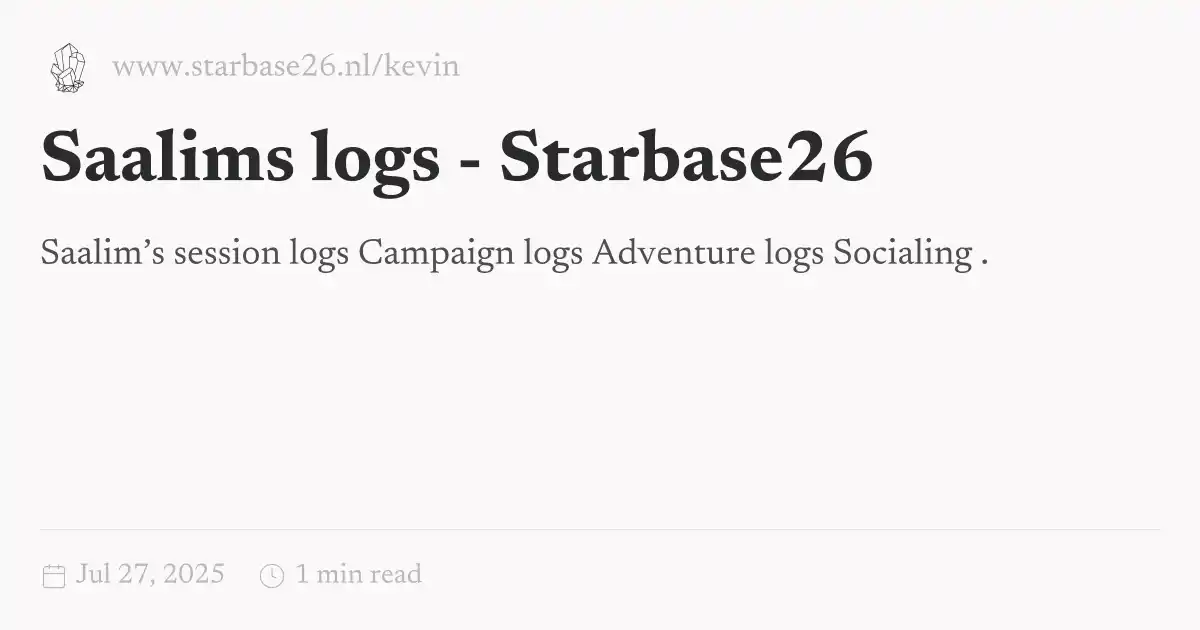
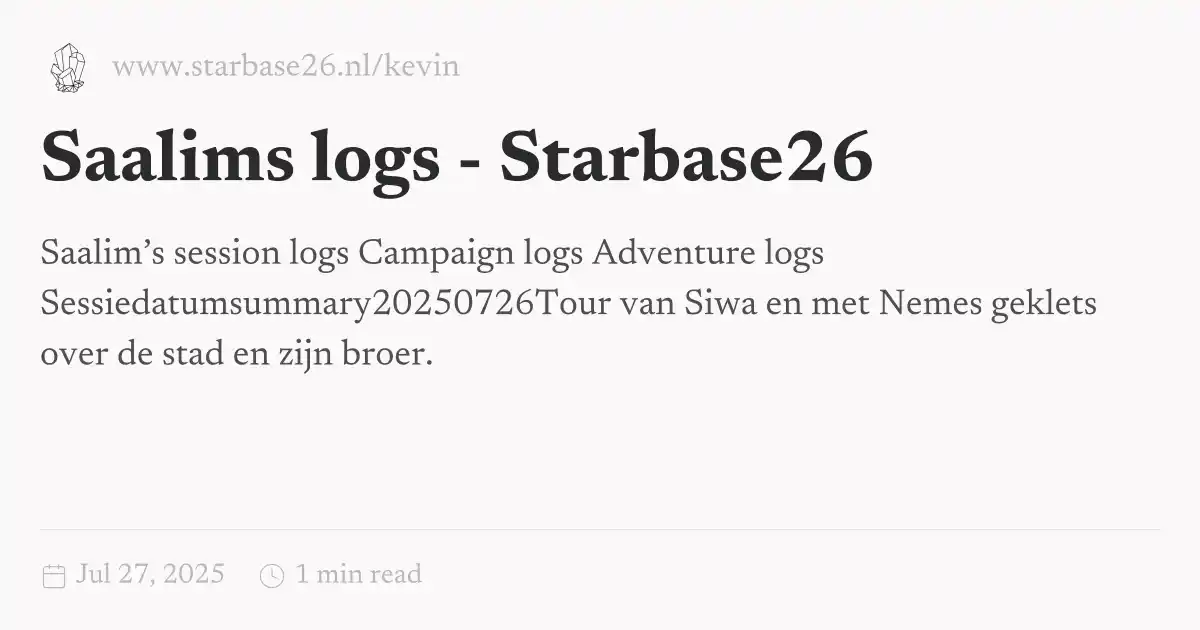
Quartz sync: Jul 27, 2025, 3:20 PM

Changed region(s): [[0.0308, 0.4524, 0.925, 0.5127], [0.0308, 0.5429, 0.37, 0.6032], [0.6783, 0.3921, 0.8325, 0.4222]]

diff --git a/public/TTRPG/characters/My-Characters/Saalim-abu-Razin/Saalims-logs.html b/public/TTRPG/characters/My-Characters/Saalim-abu-Razin/Saalims-logs.html
@@ -1,5 +1,5 @@
 <!DOCTYPE html>
-<html lang="en"><head><title>Saalims logs - Starbase26</title><meta charset="utf-8"/><link rel="preconnect" href="https://fonts.googleapis.com"/><link rel="preconnect" href="https://fonts.gstatic.com"/><link rel="stylesheet" href="https://fonts.googleapis.com/css2?family=Newsreader:wght@400;700&amp;family=Newsreader:ital,wght@0,400;0,600;1,400;1,600&amp;family=Anonymous Pro:wght@400;600&amp;display=swap"/><link rel="preconnect" href="https://cdnjs.cloudflare.com" crossorigin="anonymous"/><meta name="viewport" content="width=device-width, initial-scale=1.0"/><meta name="og:site_name" content="The Vault"/><meta property="og:title" content="Saalims logs - Starbase26"/><meta property="og:type" content="website"/><meta name="twitter:card" content="summary_large_image"/><meta name="twitter:title" content="Saalims logs - Starbase26"/><meta name="twitter:description" content="Saalim’s session logs Campaign logs Adventure logs Socialing ."/><meta property="og:description" content="Saalim’s session logs Campaign logs Adventure logs Socialing ."/><meta property="og:image:alt" content="Saalim’s session logs Campaign logs Adventure logs Socialing ."/><meta property="twitter:domain" content="www.starbase26.nl/kevin"/><meta property="og:url" content="https://www.starbase26.nl/kevin/TTRPG/characters/My-Characters/Saalim-abu-Razin/Saalims-logs"/><meta property="twitter:url" content="https://www.starbase26.nl/kevin/TTRPG/characters/My-Characters/Saalim-abu-Razin/Saalims-logs"/><link rel="icon" href="../../../../static/icon.png"/><meta name="description" content="Saalim’s session logs Campaign logs Adventure logs Socialing ."/><meta name="generator" content="Quartz"/><link href="../../../../index.css" rel="stylesheet" type="text/css" spa-preserve/><style>.expand-button {
+<html lang="en"><head><title>Saalims logs - Starbase26</title><meta charset="utf-8"/><link rel="preconnect" href="https://fonts.googleapis.com"/><link rel="preconnect" href="https://fonts.gstatic.com"/><link rel="stylesheet" href="https://fonts.googleapis.com/css2?family=Newsreader:wght@400;700&amp;family=Newsreader:ital,wght@0,400;0,600;1,400;1,600&amp;family=Anonymous Pro:wght@400;600&amp;display=swap"/><link rel="preconnect" href="https://cdnjs.cloudflare.com" crossorigin="anonymous"/><meta name="viewport" content="width=device-width, initial-scale=1.0"/><meta name="og:site_name" content="The Vault"/><meta property="og:title" content="Saalims logs - Starbase26"/><meta property="og:type" content="website"/><meta name="twitter:card" content="summary_large_image"/><meta name="twitter:title" content="Saalims logs - Starbase26"/><meta name="twitter:description" content="Saalim’s session logs Campaign logs Adventure logs Sessiedatumsummary20250726Tour van Siwa en met Nemes geklets over de stad en zijn broer."/><meta property="og:description" content="Saalim’s session logs Campaign logs Adventure logs Sessiedatumsummary20250726Tour van Siwa en met Nemes geklets over de stad en zijn broer."/><meta property="og:image:alt" content="Saalim’s session logs Campaign logs Adventure logs Sessiedatumsummary20250726Tour van Siwa en met Nemes geklets over de stad en zijn broer."/><meta property="twitter:domain" content="www.starbase26.nl/kevin"/><meta property="og:url" content="https://www.starbase26.nl/kevin/TTRPG/characters/My-Characters/Saalim-abu-Razin/Saalims-logs"/><meta property="twitter:url" content="https://www.starbase26.nl/kevin/TTRPG/characters/My-Characters/Saalim-abu-Razin/Saalims-logs"/><link rel="icon" href="../../../../static/icon.png"/><meta name="description" content="Saalim’s session logs Campaign logs Adventure logs Sessiedatumsummary20250726Tour van Siwa en met Nemes geklets over de stad en zijn broer."/><meta name="generator" content="Quartz"/><link href="../../../../index.css" rel="stylesheet" type="text/css" spa-preserve/><style>.expand-button {
   position: absolute;
   display: flex;
   float: right;
@@ -119,7 +119,38 @@ pre:hover > .expand-button {
[1 lines of base64/hex data omitted]
 <h2 id="campaign-logs">Campaign logs<a role="anchor" aria-hidden="true" tabindex="-1" data-no-popover="true" href="#campaign-logs" class="internal"><svg width="18" height="18" viewBox="0 0 24 24" fill="none" stroke="currentColor" stroke-width="2" stroke-linecap="round" stroke-linejoin="round"><path d="M10 13a5 5 0 0 0 7.54.54l3-3a5 5 0 0 0-7.07-7.07l-1.72 1.71"></path><path d="M14 11a5 5 0 0 0-7.54-.54l-3 3a5 5 0 0 0 7.07 7.07l1.71-1.71"></path></svg></a></h2>
 <h2 id="adventure-logs">Adventure logs<a role="anchor" aria-hidden="true" tabindex="-1" data-no-popover="true" href="#adventure-logs" class="internal"><svg width="18" height="18" viewBox="0 0 24 24" fill="none" stroke="currentColor" stroke-width="2" stroke-linecap="round" stroke-linejoin="round"><path d="M10 13a5 5 0 0 0 7.54.54l3-3a5 5 0 0 0-7.07-7.07l-1.72 1.71"></path><path d="M14 11a5 5 0 0 0-7.54-.54l-3 3a5 5 0 0 0 7.07 7.07l1.71-1.71"></path></svg></a></h2>
-<h2 id="socialing">Socialing<a role="anchor" aria-hidden="true" tabindex="-1" data-no-popover="true" href="#socialing" class="internal"><svg width="18" height="18" viewBox="0 0 24 24" fill="none" stroke="currentColor" stroke-width="2" stroke-linecap="round" stroke-linejoin="round"><path d="M10 13a5 5 0 0 0 7.54.54l3-3a5 5 0 0 0-7.07-7.07l-1.72 1.71"></path><path d="M14 11a5 5 0 0 0-7.54-.54l-3 3a5 5 0 0 0 7.07 7.07l1.71-1.71"></path></svg></a></h2>
+
+
+
+
+
+
+
+
+
+
+
+
+
+
+
+
+
+
+
+
+
+
+
+
+
+
+
+
+
+
+
+<div class="table-container"><table><thead><tr><th>Sessiedatum</th><th>summary</th></tr></thead><tbody><tr><td><a href="../../../../TTRPG/session-notes/20250726" class="internal" data-slug="TTRPG/session-notes/20250726">20250726</a></td><td>Tour van Siwa en met Nemes geklets over de stad en zijn broer. Daarnaast is de Childrens’ Wing in het hospital afgerond en is kleurrijk en mooi!</td></tr><tr><td><a href="../../../../TTRPG/session-notes/20250725" class="internal" data-slug="TTRPG/session-notes/20250725">20250725</a></td><td>Saalim bevrijdt een Egyptische kolonel en installeert een groep van 18 streetrats in Siwa onder leiding van Khenru als informanten. Ondertussen arriveert een barmaid uit Abad in het paleis om haar brouwkunsten te verkennen.</td></tr><tr><td><a href="../../../../TTRPG/session-notes/20250724" class="internal" data-slug="TTRPG/session-notes/20250724">20250724</a></td><td>Saalim en Faisal gaan naar de stad Abad om Col. Menes uit de problemen te halen, om er achter te komen dat zijn broer Ahron niet zo nobel is als Menes.  Ook recruteerd Saalim wat straatkinderen om in Siwa een oogje in het zeil te houden voor hem.</td></tr><tr><td><a href="../../../../TTRPG/session-notes/20250723" class="internal" data-slug="TTRPG/session-notes/20250723">20250723</a></td><td>Twee jongens ruziën om een meisje; zij vindt het stiekem leuk en gooit water over hen. Saalim straft hen met 7 weken kamelen verzorgen, maar dat houdt maar één dag stand.</td></tr><tr><td><a href="../../../../TTRPG/session-notes/20250716" class="internal" data-slug="TTRPG/session-notes/20250716">20250716</a></td><td>Omar Mawazi’s wife, the Banshee, Destruction of Al Qadir</td></tr></tbody></table></div>
 </article><hr/><div class="page-footer"></div></div><div class="right sidebar"><div class="graph"><h3>Graph View</h3><div class="graph-outer"><div class="graph-container" data-cfg="{&quot;drag&quot;:true,&quot;zoom&quot;:true,&quot;depth&quot;:1,&quot;scale&quot;:1.1,&quot;repelForce&quot;:0.5,&quot;centerForce&quot;:0.3,&quot;linkDistance&quot;:30,&quot;fontSize&quot;:0.6,&quot;opacityScale&quot;:1,&quot;showTags&quot;:true,&quot;removeTags&quot;:[],&quot;focusOnHover&quot;:false,&quot;enableRadial&quot;:false}"></div><button class="global-graph-icon" aria-label="Global Graph"><svg version="1.1" xmlns="http://www.w3.org/2000/svg" xmlns:xlink="http://www.w3.org/1999/xlink" x="0px" y="0px" viewBox="0 0 55 55" fill="currentColor" xml:space="preserve"><path d="M49,0c-3.309,0-6,2.691-6,6c0,1.035,0.263,2.009,0.726,2.86l-9.829,9.829C32.542,17.634,30.846,17,29,17
                 s-3.542,0.634-4.898,1.688l-7.669-7.669C16.785,10.424,17,9.74,17,9c0-2.206-1.794-4-4-4S9,6.794,9,9s1.794,4,4,4
                 c0.74,0,1.424-0.215,2.019-0.567l7.669,7.669C21.634,21.458,21,23.154,21,25s0.634,3.542,1.688,4.897L10.024,42.562
@@ -130,6 +161,6 @@ pre:hover > .expand-button {
                 C46.042,11.405,47.451,12,49,12c3.309,0,6-2.691,6-6S52.309,0,49,0z M11,9c0-1.103,0.897-2,2-2s2,0.897,2,2s-0.897,2-2,2
                 S11,10.103,11,9z M6,51c-2.206,0-4-1.794-4-4s1.794-4,4-4s4,1.794,4,4S8.206,51,6,51z M33,49c0,2.206-1.794,4-4,4s-4-1.794-4-4
                 s1.794-4,4-4S33,46.794,33,49z M29,31c-3.309,0-6-2.691-6-6s2.691-6,6-6s6,2.691,6,6S32.309,31,29,31z M47,41c0,1.103-0.897,2-2,2
-                s-2-0.897-2-2s0.897-2,2-2S47,39.897,47,41z M49,10c-2.206,0-4-1.794-4-4s1.794-4,4-4s4,1.794,4,4S51.206,10,49,10z"></path></svg></button></div><div class="global-graph-outer"><div class="global-graph-container" data-cfg="{&quot;drag&quot;:true,&quot;zoom&quot;:true,&quot;depth&quot;:-1,&quot;scale&quot;:0.9,&quot;repelForce&quot;:0.5,&quot;centerForce&quot;:0.2,&quot;linkDistance&quot;:30,&quot;fontSize&quot;:0.6,&quot;opacityScale&quot;:1,&quot;showTags&quot;:true,&quot;removeTags&quot;:[],&quot;focusOnHover&quot;:true,&quot;enableRadial&quot;:true}"></div></div></div><div class="toc desktop-only"><button type="button" class="toc-header" aria-controls="toc-content" aria-expanded="true"><h3>Table of Contents</h3><svg xmlns="http://www.w3.org/2000/svg" width="24" height="24" viewBox="0 0 24 24" fill="none" stroke="currentColor" stroke-width="2" stroke-linecap="round" stroke-linejoin="round" class="fold"><polyline points="6 9 12 15 18 9"></polyline></svg></button><ul class="toc-content overflow" id="list-1"><li class="depth-0"><a href="#saalims-session-logs" data-for="saalims-session-logs">Saalim’s session logs</a></li><li class="depth-1"><a href="#campaign-logs" data-for="campaign-logs">Campaign logs</a></li><li class="depth-1"><a href="#adventure-logs" data-for="adventure-logs">Adventure logs</a></li><li class="depth-1"><a href="#socialing" data-for="socialing">Socialing</a></li><li class="overflow-end"></li></ul></div><div class="backlinks"><h3>Backlinks</h3><ul id="list-2" class="overflow"><li><a href="../../../../TTRPG/characters/My-Characters/Saalim-abu-Razin/Saalim-Abu-Razin-Al-Medjai" class="internal">Saalim Abu Razin Al Medjai</a></li><li class="overflow-end"></li></ul></div></div><footer class><p>Created with <a href="https://quartz.jzhao.xyz/">Quartz v4.5.1</a> © 2025</p><ul><li><a href="https://github.com/jackyzha0/quartz">GitHub</a></li><li><a href="https://discord.gg/cRFFHYye7t">Discord Community</a></li></ul></footer></div></div></body><script type="application/javascript">function n(){let t=this.parentElement;t.classList.toggle("is-collapsed");let e=t.getElementsByClassName("callout-content")[0];if(!e)return;let l=t.classList.contains("is-collapsed");e.style.gridTemplateRows=l?"0fr":"1fr"}function c(){let t=document.getElementsByClassName("callout is-collapsible");for(let e of t){let l=e.getElementsByClassName("callout-title")[0],s=e.getElementsByClassName("callout-content")[0];if(!l||!s)continue;l.addEventListener("click",n),window.addCleanup(()=>l.removeEventListener("click",n));let o=e.classList.contains("is-collapsed");s.style.gridTemplateRows=o?"0fr":"1fr"}}document.addEventListener("nav",c);
+                s-2-0.897-2-2s0.897-2,2-2S47,39.897,47,41z M49,10c-2.206,0-4-1.794-4-4s1.794-4,4-4s4,1.794,4,4S51.206,10,49,10z"></path></svg></button></div><div class="global-graph-outer"><div class="global-graph-container" data-cfg="{&quot;drag&quot;:true,&quot;zoom&quot;:true,&quot;depth&quot;:-1,&quot;scale&quot;:0.9,&quot;repelForce&quot;:0.5,&quot;centerForce&quot;:0.2,&quot;linkDistance&quot;:30,&quot;fontSize&quot;:0.6,&quot;opacityScale&quot;:1,&quot;showTags&quot;:true,&quot;removeTags&quot;:[],&quot;focusOnHover&quot;:true,&quot;enableRadial&quot;:true}"></div></div></div><div class="toc desktop-only"><button type="button" class="toc-header" aria-controls="toc-content" aria-expanded="true"><h3>Table of Contents</h3><svg xmlns="http://www.w3.org/2000/svg" width="24" height="24" viewBox="0 0 24 24" fill="none" stroke="currentColor" stroke-width="2" stroke-linecap="round" stroke-linejoin="round" class="fold"><polyline points="6 9 12 15 18 9"></polyline></svg></button><ul class="toc-content overflow" id="list-1"><li class="depth-0"><a href="#saalims-session-logs" data-for="saalims-session-logs">Saalim’s session logs</a></li><li class="depth-1"><a href="#campaign-logs" data-for="campaign-logs">Campaign logs</a></li><li class="depth-1"><a href="#adventure-logs" data-for="adventure-logs">Adventure logs</a></li><li class="overflow-end"></li></ul></div><div class="backlinks"><h3>Backlinks</h3><ul id="list-2" class="overflow"><li><a href="../../../../TTRPG/characters/My-Characters/Saalim-abu-Razin/Saalim-Abu-Razin-Al-Medjai" class="internal">Saalim Abu Razin Al Medjai</a></li><li class="overflow-end"></li></ul></div></div><footer class><p>Created with <a href="https://quartz.jzhao.xyz/">Quartz v4.5.1</a> © 2025</p><ul><li><a href="https://github.com/jackyzha0/quartz">GitHub</a></li><li><a href="https://discord.gg/cRFFHYye7t">Discord Community</a></li></ul></footer></div></div></body><script type="application/javascript">function n(){let t=this.parentElement;t.classList.toggle("is-collapsed");let e=t.getElementsByClassName("callout-content")[0];if(!e)return;let l=t.classList.contains("is-collapsed");e.style.gridTemplateRows=l?"0fr":"1fr"}function c(){let t=document.getElementsByClassName("callout is-collapsible");for(let e of t){let l=e.getElementsByClassName("callout-title")[0],s=e.getElementsByClassName("callout-content")[0];if(!l||!s)continue;l.addEventListener("click",n),window.addCleanup(()=>l.removeEventListener("click",n));let o=e.classList.contains("is-collapsed");s.style.gridTemplateRows=o?"0fr":"1fr"}}document.addEventListener("nav",c);
 </script><script type="module">function f(i,e){if(!i)return;function r(o){o.target===this&&(o.preventDefault(),o.stopPropagation(),e())}function t(o){o.key.startsWith("Esc")&&(o.preventDefault(),e())}i?.addEventListener("click",r),window.addCleanup(()=>i?.removeEventListener("click",r)),document.addEventListener("keydown",t),window.addCleanup(()=>document.removeEventListener("keydown",t))}function y(i){for(;i.firstChild;)i.removeChild(i.firstChild)}var h=class{constructor(e,r){this.container=e;this.content=r;this.setupEventListeners(),this.setupNavigationControls(),this.resetTransform()}isDragging=!1;startPan={x:0,y:0};currentPan={x:0,y:0};scale=1;MIN_SCALE=.5;MAX_SCALE=3;cleanups=[];setupEventListeners(){let e=this.onMouseDown.bind(this),r=this.onMouseMove.bind(this),t=this.onMouseUp.bind(this),o=this.resetTransform.bind(this);this.container.addEventListener("mousedown",e),document.addEventListener("mousemove",r),document.addEventListener("mouseup",t),window.addEventListener("resize",o),this.cleanups.push(()=>this.container.removeEventListener("mousedown",e),()=>document.removeEventListener("mousemove",r),()=>document.removeEventListener("mouseup",t),()=>window.removeEventListener("resize",o))}cleanup(){for(let e of this.cleanups)e()}setupNavigationControls(){let e=document.createElement("div");e.className="mermaid-controls";let r=this.createButton("+",()=>this.zoom(.1)),t=this.createButton("-",()=>this.zoom(-.1)),o=this.createButton("Reset",()=>this.resetTransform());e.appendChild(t),e.appendChild(o),e.appendChild(r),this.container.appendChild(e)}createButton(e,r){let t=document.createElement("button");return t.textContent=e,t.className="mermaid-control-button",t.addEventListener("click",r),window.addCleanup(()=>t.removeEventListener("click",r)),t}onMouseDown(e){e.button===0&&(this.isDragging=!0,this.startPan={x:e.clientX-this.currentPan.x,y:e.clientY-this.currentPan.y},this.container.style.cursor="grabbing")}onMouseMove(e){this.isDragging&&(e.preventDefault(),this.currentPan={x:e.clientX-this.startPan.x,y:e.clientY-this.startPan.y},this.updateTransform())}onMouseUp(){this.isDragging=!1,this.container.style.cursor="grab"}zoom(e){let r=Math.min(Math.max(this.scale+e,this.MIN_SCALE),this.MAX_SCALE),t=this.content.getBoundingClientRect(),o=t.width/2,n=t.height/2,c=r-this.scale;this.currentPan.x-=o*c,this.currentPan.y-=n*c,this.scale=r,this.updateTransform()}updateTransform(){this.content.style.transform=`translate(${this.currentPan.x}px, ${this.currentPan.y}px) scale(${this.scale})`}resetTransform(){this.scale=1;let e=this.content.querySelector("svg");this.currentPan={x:e.getBoundingClientRect().width/2,y:e.getBoundingClientRect().height/2},this.updateTransform()}},C=["--secondary","--tertiary","--gray","--light","--lightgray","--highlight","--dark","--darkgray","--codeFont"],E;document.addEventListener("nav",async()=>{let e=document.querySelector(".center").querySelectorAll("code.mermaid");if(e.length===0)return;E||=await import("https://cdnjs.cloudflare.com/ajax/libs/mermaid/11.4.0/mermaid.esm.min.mjs");let r=E.default,t=new WeakMap;for(let n of e)t.set(n,n.innerText);async function o(){for(let s of e){s.removeAttribute("data-processed");let a=t.get(s);a&&(s.innerHTML=a)}let n=C.reduce((s,a)=>(s[a]=window.getComputedStyle(document.documentElement).getPropertyValue(a),s),{}),c=document.documentElement.getAttribute("saved-theme")==="dark";r.initialize({startOnLoad:!1,securityLevel:"loose",theme:c?"dark":"base",themeVariables:{fontFamily:n["--codeFont"],primaryColor:n["--light"],primaryTextColor:n["--darkgray"],primaryBorderColor:n["--tertiary"],lineColor:n["--darkgray"],secondaryColor:n["--secondary"],tertiaryColor:n["--tertiary"],clusterBkg:n["--light"],edgeLabelBackground:n["--highlight"]}}),await r.run({nodes:e})}await o(),document.addEventListener("themechange",o),window.addCleanup(()=>document.removeEventListener("themechange",o));for(let n=0;n<e.length;n++){let v=function(){let g=l.querySelector("#mermaid-space"),m=l.querySelector(".mermaid-content");if(!m)return;y(m);let w=c.querySelector("svg").cloneNode(!0);m.appendChild(w),l.classList.add("active"),g.style.cursor="grab",u=new h(g,m)},M=function(){l.classList.remove("active"),u?.cleanup(),u=null},c=e[n],s=c.parentElement,a=s.querySelector(".clipboard-button"),d=s.querySelector(".expand-button"),p=window.getComputedStyle(a),L=a.offsetWidth+parseFloat(p.marginLeft||"0")+parseFloat(p.marginRight||"0");d.style.right=`calc(${L}px + 0.3rem)`,s.prepend(d);let l=s.querySelector("#mermaid-container");if(!l)return;let u=null;d.addEventListener("click",v),f(l,M),window.addCleanup(()=>{u?.cleanup(),d.removeEventListener("click",v)})}});
 </script><script src="https://cdn.jsdelivr.net/npm/katex@0.16.11/dist/contrib/copy-tex.min.js" type="application/javascript"></script><script src="../../../../postscript.js" type="module"></script></html>

diff --git a/public/Personal/BluRays/index.html b/public/Personal/BluRays/index.html
@@ -116,6 +116,6 @@ pre:hover > .expand-button {
   padding: 0 12px;
   font-size: 14px;
 }
[2 lines of base64/hex data omitted]
 </script><script type="module">function f(i,e){if(!i)return;function r(o){o.target===this&&(o.preventDefault(),o.stopPropagation(),e())}function t(o){o.key.startsWith("Esc")&&(o.preventDefault(),e())}i?.addEventListener("click",r),window.addCleanup(()=>i?.removeEventListener("click",r)),document.addEventListener("keydown",t),window.addCleanup(()=>document.removeEventListener("keydown",t))}function y(i){for(;i.firstChild;)i.removeChild(i.firstChild)}var h=class{constructor(e,r){this.container=e;this.content=r;this.setupEventListeners(),this.setupNavigationControls(),this.resetTransform()}isDragging=!1;startPan={x:0,y:0};currentPan={x:0,y:0};scale=1;MIN_SCALE=.5;MAX_SCALE=3;cleanups=[];setupEventListeners(){let e=this.onMouseDown.bind(this),r=this.onMouseMove.bind(this),t=this.onMouseUp.bind(this),o=this.resetTransform.bind(this);this.container.addEventListener("mousedown",e),document.addEventListener("mousemove",r),document.addEventListener("mouseup",t),window.addEventListener("resize",o),this.cleanups.push(()=>this.container.removeEventListener("mousedown",e),()=>document.removeEventListener("mousemove",r),()=>document.removeEventListener("mouseup",t),()=>window.removeEventListener("resize",o))}cleanup(){for(let e of this.cleanups)e()}setupNavigationControls(){let e=document.createElement("div");e.className="mermaid-controls";let r=this.createButton("+",()=>this.zoom(.1)),t=this.createButton("-",()=>this.zoom(-.1)),o=this.createButton("Reset",()=>this.resetTransform());e.appendChild(t),e.appendChild(o),e.appendChild(r),this.container.appendChild(e)}createButton(e,r){let t=document.createElement("button");return t.textContent=e,t.className="mermaid-control-button",t.addEventListener("click",r),window.addCleanup(()=>t.removeEventListener("click",r)),t}onMouseDown(e){e.button===0&&(this.isDragging=!0,this.startPan={x:e.clientX-this.currentPan.x,y:e.clientY-this.currentPan.y},this.container.style.cursor="grabbing")}onMouseMove(e){this.isDragging&&(e.preventDefault(),this.currentPan={x:e.clientX-this.startPan.x,y:e.clientY-this.startPan.y},this.updateTransform())}onMouseUp(){this.isDragging=!1,this.container.style.cursor="grab"}zoom(e){let r=Math.min(Math.max(this.scale+e,this.MIN_SCALE),this.MAX_SCALE),t=this.content.getBoundingClientRect(),o=t.width/2,n=t.height/2,c=r-this.scale;this.currentPan.x-=o*c,this.currentPan.y-=n*c,this.scale=r,this.updateTransform()}updateTransform(){this.content.style.transform=`translate(${this.currentPan.x}px, ${this.currentPan.y}px) scale(${this.scale})`}resetTransform(){this.scale=1;let e=this.content.querySelector("svg");this.currentPan={x:e.getBoundingClientRect().width/2,y:e.getBoundingClientRect().height/2},this.updateTransform()}},C=["--secondary","--tertiary","--gray","--light","--lightgray","--highlight","--dark","--darkgray","--codeFont"],E;document.addEventListener("nav",async()=>{let e=document.querySelector(".center").querySelectorAll("code.mermaid");if(e.length===0)return;E||=await import("https://cdnjs.cloudflare.com/ajax/libs/mermaid/11.4.0/mermaid.esm.min.mjs");let r=E.default,t=new WeakMap;for(let n of e)t.set(n,n.innerText);async function o(){for(let s of e){s.removeAttribute("data-processed");let a=t.get(s);a&&(s.innerHTML=a)}let n=C.reduce((s,a)=>(s[a]=window.getComputedStyle(document.documentElement).getPropertyValue(a),s),{}),c=document.documentElement.getAttribute("saved-theme")==="dark";r.initialize({startOnLoad:!1,securityLevel:"loose",theme:c?"dark":"base",themeVariables:{fontFamily:n["--codeFont"],primaryColor:n["--light"],primaryTextColor:n["--darkgray"],primaryBorderColor:n["--tertiary"],lineColor:n["--darkgray"],secondaryColor:n["--secondary"],tertiaryColor:n["--tertiary"],clusterBkg:n["--light"],edgeLabelBackground:n["--highlight"]}}),await r.run({nodes:e})}await o(),document.addEventListener("themechange",o),window.addCleanup(()=>document.removeEventListener("themechange",o));for(let n=0;n<e.length;n++){let v=function(){let g=l.querySelector("#mermaid-space"),m=l.querySelector(".mermaid-content");if(!m)return;y(m);let w=c.querySelector("svg").cloneNode(!0);m.appendChild(w),l.classList.add("active"),g.style.cursor="grab",u=new h(g,m)},M=function(){l.classList.remove("active"),u?.cleanup(),u=null},c=e[n],s=c.parentElement,a=s.querySelector(".clipboard-button"),d=s.querySelector(".expand-button"),p=window.getComputedStyle(a),L=a.offsetWidth+parseFloat(p.marginLeft||"0")+parseFloat(p.marginRight||"0");d.style.right=`calc(${L}px + 0.3rem)`,s.prepend(d);let l=s.querySelector("#mermaid-container");if(!l)return;let u=null;d.addEventListener("click",v),f(l,M),window.addCleanup(()=>{u?.cleanup(),d.removeEventListener("click",v)})}});
 </script><script src="https://cdn.jsdelivr.net/npm/katex@0.16.11/dist/contrib/copy-tex.min.js" type="application/javascript"></script><script src="../../postscript.js" type="module"></script></html>

diff --git a/public/Personal/BluRays/my-blurays.html b/public/Personal/BluRays/my-blurays.html
@@ -116,7 +116,7 @@ pre:hover > .expand-button {
   padding: 0 12px;
   font-size: 14px;
 }
[2 lines of base64/hex data omitted]
                 s-3.542,0.634-4.898,1.688l-7.669-7.669C16.785,10.424,17,9.74,17,9c0-2.206-1.794-4-4-4S9,6.794,9,9s1.794,4,4,4
                 c0.74,0,1.424-0.215,2.019-0.567l7.669,7.669C21.634,21.458,21,23.154,21,25s0.634,3.542,1.688,4.897L10.024,42.562
                 C8.958,41.595,7.549,41,6,41c-3.309,0-6,2.691-6,6s2.691,6,6,6s6-2.691,6-6c0-1.035-0.263-2.009-0.726-2.86l12.829-12.829

diff --git a/public/Personal/index.html b/public/Personal/index.html
@@ -116,6 +116,6 @@ pre:hover > .expand-button {
   padding: 0 12px;
   font-size: 14px;
 }
[2 lines of base64/hex data omitted]
 </script><script type="module">function f(i,e){if(!i)return;function r(o){o.target===this&&(o.preventDefault(),o.stopPropagation(),e())}function t(o){o.key.startsWith("Esc")&&(o.preventDefault(),e())}i?.addEventListener("click",r),window.addCleanup(()=>i?.removeEventListener("click",r)),document.addEventListener("keydown",t),window.addCleanup(()=>document.removeEventListener("keydown",t))}function y(i){for(;i.firstChild;)i.removeChild(i.firstChild)}var h=class{constructor(e,r){this.container=e;this.content=r;this.setupEventListeners(),this.setupNavigationControls(),this.resetTransform()}isDragging=!1;startPan={x:0,y:0};currentPan={x:0,y:0};scale=1;MIN_SCALE=.5;MAX_SCALE=3;cleanups=[];setupEventListeners(){let e=this.onMouseDown.bind(this),r=this.onMouseMove.bind(this),t=this.onMouseUp.bind(this),o=this.resetTransform.bind(this);this.container.addEventListener("mousedown",e),document.addEventListener("mousemove",r),document.addEventListener("mouseup",t),window.addEventListener("resize",o),this.cleanups.push(()=>this.container.removeEventListener("mousedown",e),()=>document.removeEventListener("mousemove",r),()=>document.removeEventListener("mouseup",t),()=>window.removeEventListener("resize",o))}cleanup(){for(let e of this.cleanups)e()}setupNavigationControls(){let e=document.createElement("div");e.className="mermaid-controls";let r=this.createButton("+",()=>this.zoom(.1)),t=this.createButton("-",()=>this.zoom(-.1)),o=this.createButton("Reset",()=>this.resetTransform());e.appendChild(t),e.appendChild(o),e.appendChild(r),this.container.appendChild(e)}createButton(e,r){let t=document.createElement("button");return t.textContent=e,t.className="mermaid-control-button",t.addEventListener("click",r),window.addCleanup(()=>t.removeEventListener("click",r)),t}onMouseDown(e){e.button===0&&(this.isDragging=!0,this.startPan={x:e.clientX-this.currentPan.x,y:e.clientY-this.currentPan.y},this.container.style.cursor="grabbing")}onMouseMove(e){this.isDragging&&(e.preventDefault(),this.currentPan={x:e.clientX-this.startPan.x,y:e.clientY-this.startPan.y},this.updateTransform())}onMouseUp(){this.isDragging=!1,this.container.style.cursor="grab"}zoom(e){let r=Math.min(Math.max(this.scale+e,this.MIN_SCALE),this.MAX_SCALE),t=this.content.getBoundingClientRect(),o=t.width/2,n=t.height/2,c=r-this.scale;this.currentPan.x-=o*c,this.currentPan.y-=n*c,this.scale=r,this.updateTransform()}updateTransform(){this.content.style.transform=`translate(${this.currentPan.x}px, ${this.currentPan.y}px) scale(${this.scale})`}resetTransform(){this.scale=1;let e=this.content.querySelector("svg");this.currentPan={x:e.getBoundingClientRect().width/2,y:e.getBoundingClientRect().height/2},this.updateTransform()}},C=["--secondary","--tertiary","--gray","--light","--lightgray","--highlight","--dark","--darkgray","--codeFont"],E;document.addEventListener("nav",async()=>{let e=document.querySelector(".center").querySelectorAll("code.mermaid");if(e.length===0)return;E||=await import("https://cdnjs.cloudflare.com/ajax/libs/mermaid/11.4.0/mermaid.esm.min.mjs");let r=E.default,t=new WeakMap;for(let n of e)t.set(n,n.innerText);async function o(){for(let s of e){s.removeAttribute("data-processed");let a=t.get(s);a&&(s.innerHTML=a)}let n=C.reduce((s,a)=>(s[a]=window.getComputedStyle(document.documentElement).getPropertyValue(a),s),{}),c=document.documentElement.getAttribute("saved-theme")==="dark";r.initialize({startOnLoad:!1,securityLevel:"loose",theme:c?"dark":"base",themeVariables:{fontFamily:n["--codeFont"],primaryColor:n["--light"],primaryTextColor:n["--darkgray"],primaryBorderColor:n["--tertiary"],lineColor:n["--darkgray"],secondaryColor:n["--secondary"],tertiaryColor:n["--tertiary"],clusterBkg:n["--light"],edgeLabelBackground:n["--highlight"]}}),await r.run({nodes:e})}await o(),document.addEventListener("themechange",o),window.addCleanup(()=>document.removeEventListener("themechange",o));for(let n=0;n<e.length;n++){let v=function(){let g=l.querySelector("#mermaid-space"),m=l.querySelector(".mermaid-content");if(!m)return;y(m);let w=c.querySelector("svg").cloneNode(!0);m.appendChild(w),l.classList.add("active"),g.style.cursor="grab",u=new h(g,m)},M=function(){l.classList.remove("active"),u?.cleanup(),u=null},c=e[n],s=c.parentElement,a=s.querySelector(".clipboard-button"),d=s.querySelector(".expand-button"),p=window.getComputedStyle(a),L=a.offsetWidth+parseFloat(p.marginLeft||"0")+parseFloat(p.marginRight||"0");d.style.right=`calc(${L}px + 0.3rem)`,s.prepend(d);let l=s.querySelector("#mermaid-container");if(!l)return;let u=null;d.addEventListener("click",v),f(l,M),window.addCleanup(()=>{u?.cleanup(),d.removeEventListener("click",v)})}});
 </script><script src="https://cdn.jsdelivr.net/npm/katex@0.16.11/dist/contrib/copy-tex.min.js" type="application/javascript"></script><script src="../postscript.js" type="module"></script></html>

diff --git a/public/ScratchPad/index.html b/public/ScratchPad/index.html
@@ -116,6 +116,6 @@ pre:hover > .expand-button {
   padding: 0 12px;
   font-size: 14px;
 }
[2 lines of base64/hex data omitted]
 </script><script type="module">function f(i,e){if(!i)return;function r(o){o.target===this&&(o.preventDefault(),o.stopPropagation(),e())}function t(o){o.key.startsWith("Esc")&&(o.preventDefault(),e())}i?.addEventListener("click",r),window.addCleanup(()=>i?.removeEventListener("click",r)),document.addEventListener("keydown",t),window.addCleanup(()=>document.removeEventListener("keydown",t))}function y(i){for(;i.firstChild;)i.removeChild(i.firstChild)}var h=class{constructor(e,r){this.container=e;this.content=r;this.setupEventListeners(),this.setupNavigationControls(),this.resetTransform()}isDragging=!1;startPan={x:0,y:0};currentPan={x:0,y:0};scale=1;MIN_SCALE=.5;MAX_SCALE=3;cleanups=[];setupEventListeners(){let e=this.onMouseDown.bind(this),r=this.onMouseMove.bind(this),t=this.onMouseUp.bind(this),o=this.resetTransform.bind(this);this.container.addEventListener("mousedown",e),document.addEventListener("mousemove",r),document.addEventListener("mouseup",t),window.addEventListener("resize",o),this.cleanups.push(()=>this.container.removeEventListener("mousedown",e),()=>document.removeEventListener("mousemove",r),()=>document.removeEventListener("mouseup",t),()=>window.removeEventListener("resize",o))}cleanup(){for(let e of this.cleanups)e()}setupNavigationControls(){let e=document.createElement("div");e.className="mermaid-controls";let r=this.createButton("+",()=>this.zoom(.1)),t=this.createButton("-",()=>this.zoom(-.1)),o=this.createButton("Reset",()=>this.resetTransform());e.appendChild(t),e.appendChild(o),e.appendChild(r),this.container.appendChild(e)}createButton(e,r){let t=document.createElement("button");return t.textContent=e,t.className="mermaid-control-button",t.addEventListener("click",r),window.addCleanup(()=>t.removeEventListener("click",r)),t}onMouseDown(e){e.button===0&&(this.isDragging=!0,this.startPan={x:e.clientX-this.currentPan.x,y:e.clientY-this.currentPan.y},this.container.style.cursor="grabbing")}onMouseMove(e){this.isDragging&&(e.preventDefault(),this.currentPan={x:e.clientX-this.startPan.x,y:e.clientY-this.startPan.y},this.updateTransform())}onMouseUp(){this.isDragging=!1,this.container.style.cursor="grab"}zoom(e){let r=Math.min(Math.max(this.scale+e,this.MIN_SCALE),this.MAX_SCALE),t=this.content.getBoundingClientRect(),o=t.width/2,n=t.height/2,c=r-this.scale;this.currentPan.x-=o*c,this.currentPan.y-=n*c,this.scale=r,this.updateTransform()}updateTransform(){this.content.style.transform=`translate(${this.currentPan.x}px, ${this.currentPan.y}px) scale(${this.scale})`}resetTransform(){this.scale=1;let e=this.content.querySelector("svg");this.currentPan={x:e.getBoundingClientRect().width/2,y:e.getBoundingClientRect().height/2},this.updateTransform()}},C=["--secondary","--tertiary","--gray","--light","--lightgray","--highlight","--dark","--darkgray","--codeFont"],E;document.addEventListener("nav",async()=>{let e=document.querySelector(".center").querySelectorAll("code.mermaid");if(e.length===0)return;E||=await import("https://cdnjs.cloudflare.com/ajax/libs/mermaid/11.4.0/mermaid.esm.min.mjs");let r=E.default,t=new WeakMap;for(let n of e)t.set(n,n.innerText);async function o(){for(let s of e){s.removeAttribute("data-processed");let a=t.get(s);a&&(s.innerHTML=a)}let n=C.reduce((s,a)=>(s[a]=window.getComputedStyle(document.documentElement).getPropertyValue(a),s),{}),c=document.documentElement.getAttribute("saved-theme")==="dark";r.initialize({startOnLoad:!1,securityLevel:"loose",theme:c?"dark":"base",themeVariables:{fontFamily:n["--codeFont"],primaryColor:n["--light"],primaryTextColor:n["--darkgray"],primaryBorderColor:n["--tertiary"],lineColor:n["--darkgray"],secondaryColor:n["--secondary"],tertiaryColor:n["--tertiary"],clusterBkg:n["--light"],edgeLabelBackground:n["--highlight"]}}),await r.run({nodes:e})}await o(),document.addEventListener("themechange",o),window.addCleanup(()=>document.removeEventListener("themechange",o));for(let n=0;n<e.length;n++){let v=function(){let g=l.querySelector("#mermaid-space"),m=l.querySelector(".mermaid-content");if(!m)return;y(m);let w=c.querySelector("svg").cloneNode(!0);m.appendChild(w),l.classList.add("active"),g.style.cursor="grab",u=new h(g,m)},M=function(){l.classList.remove("active"),u?.cleanup(),u=null},c=e[n],s=c.parentElement,a=s.querySelector(".clipboard-button"),d=s.querySelector(".expand-button"),p=window.getComputedStyle(a),L=a.offsetWidth+parseFloat(p.marginLeft||"0")+parseFloat(p.marginRight||"0");d.style.right=`calc(${L}px + 0.3rem)`,s.prepend(d);let l=s.querySelector("#mermaid-container");if(!l)return;let u=null;d.addEventListener("click",v),f(l,M),window.addCleanup(()=>{u?.cleanup(),d.removeEventListener("click",v)})}});
 </script><script src="https://cdn.jsdelivr.net/npm/katex@0.16.11/dist/contrib/copy-tex.min.js" type="application/javascript"></script><script src="../postscript.js" type="module"></script></html>

diff --git a/public/ScratchPad/narrative-structures.html b/public/ScratchPad/narrative-structures.html
@@ -116,7 +116,7 @@ pre:hover > .expand-button {
   padding: 0 12px;
   font-size: 14px;
 }
[2 lines of base64/hex data omitted]
 <h3 id="summary-table">Summary Table:<a role="anchor" aria-hidden="true" tabindex="-1" data-no-popover="true" href="#summary-table" class="internal"><svg width="18" height="18" viewBox="0 0 24 24" fill="none" stroke="currentColor" stroke-width="2" stroke-linecap="round" stroke-linejoin="round"><path d="M10 13a5 5 0 0 0 7.54.54l3-3a5 5 0 0 0-7.07-7.07l-1.72 1.71"></path><path d="M14 11a5 5 0 0 0-7.54-.54l-3 3a5 5 0 0 0 7.07 7.07l1.71-1.71"></path></svg></a></h3>
 
 

diff --git a/public/ScratchPad/npc-template-design.html b/public/ScratchPad/npc-template-design.html
@@ -116,7 +116,7 @@ pre:hover > .expand-button {
   padding: 0 12px;
   font-size: 14px;
 }
[2 lines of base64/hex data omitted]
 <h2 id="intro">Intro<a role="anchor" aria-hidden="true" tabindex="-1" data-no-popover="true" href="#intro" class="internal"><svg width="18" height="18" viewBox="0 0 24 24" fill="none" stroke="currentColor" stroke-width="2" stroke-linecap="round" stroke-linejoin="round"><path d="M10 13a5 5 0 0 0 7.54.54l3-3a5 5 0 0 0-7.07-7.07l-1.72 1.71"></path><path d="M14 11a5 5 0 0 0-7.54-.54l-3 3a5 5 0 0 0 7.07 7.07l1.71-1.71"></path></svg></a></h2>
 <p>Wat wil ik met mijn NPCs.</p>
 <p>Ik merk op dat veel mensen een oppervlakkige benadering hebben van NPCs terwijl wij een <em>living world</em> hebben met veel NPCs die regelmatig langskomen. Deze NPCs worden ook niet gereset na spelen en blijven een onderdeel uitmaken van de levens van onze <em>characters</em>.</p>

diff --git a/public/ScratchPad/warhammer-fantasy-roleplay-books-checklist.html b/public/ScratchPad/warhammer-fantasy-roleplay-books-checklist.html
@@ -116,7 +116,7 @@ pre:hover > .expand-button {
   padding: 0 12px;
   font-size: 14px;
 }
[2 lines of base64/hex data omitted]
 <h2 id="essentials">Essentials<a role="anchor" aria-hidden="true" tabindex="-1" data-no-popover="true" href="#essentials" class="internal"><svg width="18" height="18" viewBox="0 0 24 24" fill="none" stroke="currentColor" stroke-width="2" stroke-linecap="round" stroke-linejoin="round"><path d="M10 13a5 5 0 0 0 7.54.54l3-3a5 5 0 0 0-7.07-7.07l-1.72 1.71"></path><path d="M14 11a5 5 0 0 0-7.54-.54l-3 3a5 5 0 0 0 7.07 7.07l1.71-1.71"></path></svg></a></h2>
 <ul class="contains-task-list">
 <li class="task-list-item"><input type="checkbox" disabled/> Warhammer Fantasy Roleplay 4th Edition Rulebook

diff --git a/public/TTRPG/characters/My-Characters/Abe-Shun'ya/Abe-Shun'ya-(Sakai).html b/public/TTRPG/characters/My-Characters/Abe-Shun'ya/Abe-Shun'ya-(Sakai).html
@@ -116,7 +116,7 @@ pre:hover > .expand-button {
   padding: 0 12px;
   font-size: 14px;
 }
[2 lines of base64/hex data omitted]
 <div class="callout-title">
                   <div class="callout-icon"></div>
                   <div class="callout-title-inner"><p>Todo</p></div>

diff --git a/public/TTRPG/characters/My-Characters/Abe-Shun'ya/My-Chantry/Sakai's-Chantry-(WiP).html b/public/TTRPG/characters/My-Characters/Abe-Shun'ya/My-Chantry/Sakai's-Chantry-(WiP).html
@@ -116,7 +116,7 @@ pre:hover > .expand-button {
   padding: 0 12px;
   font-size: 14px;
 }
[2 lines of base64/hex data omitted]
 <p>Needs a better name</p>
 <h2 id="chatgpt-analysis-o3">ChatGPT Analysis (o3)<a role="anchor" aria-hidden="true" tabindex="-1" data-no-popover="true" href="#chatgpt-analysis-o3" class="internal"><svg width="18" height="18" viewBox="0 0 24 24" fill="none" stroke="currentColor" stroke-width="2" stroke-linecap="round" stroke-linejoin="round"><path d="M10 13a5 5 0 0 0 7.54.54l3-3a5 5 0 0 0-7.07-7.07l-1.72 1.71"></path><path d="M14 11a5 5 0 0 0-7.54-.54l-3 3a5 5 0 0 0 7.07 7.07l1.71-1.71"></path></svg></a></h2>
 <blockquote>

diff --git a/public/TTRPG/characters/My-Characters/Abe-Shun'ya/My-Chantry/index.html b/public/TTRPG/characters/My-Characters/Abe-Shun'ya/My-Chantry/index.html
@@ -116,6 +116,6 @@ pre:hover > .expand-button {
   padding: 0 12px;
   font-size: 14px;
 }
[2 lines of base64/hex data omitted]
 </script><script type="module">function f(i,e){if(!i)return;function r(o){o.target===this&&(o.preventDefault(),o.stopPropagation(),e())}function t(o){o.key.startsWith("Esc")&&(o.preventDefault(),e())}i?.addEventListener("click",r),window.addCleanup(()=>i?.removeEventListener("click",r)),document.addEventListener("keydown",t),window.addCleanup(()=>document.removeEventListener("keydown",t))}function y(i){for(;i.firstChild;)i.removeChild(i.firstChild)}var h=class{constructor(e,r){this.container=e;this.content=r;this.setupEventListeners(),this.setupNavigationControls(),this.resetTransform()}isDragging=!1;startPan={x:0,y:0};currentPan={x:0,y:0};scale=1;MIN_SCALE=.5;MAX_SCALE=3;cleanups=[];setupEventListeners(){let e=this.onMouseDown.bind(this),r=this.onMouseMove.bind(this),t=this.onMouseUp.bind(this),o=this.resetTransform.bind(this);this.container.addEventListener("mousedown",e),document.addEventListener("mousemove",r),document.addEventListener("mouseup",t),window.addEventListener("resize",o),this.cleanups.push(()=>this.container.removeEventListener("mousedown",e),()=>document.removeEventListener("mousemove",r),()=>document.removeEventListener("mouseup",t),()=>window.removeEventListener("resize",o))}cleanup(){for(let e of this.cleanups)e()}setupNavigationControls(){let e=document.createElement("div");e.className="mermaid-controls";let r=this.createButton("+",()=>this.zoom(.1)),t=this.createButton("-",()=>this.zoom(-.1)),o=this.createButton("Reset",()=>this.resetTransform());e.appendChild(t),e.appendChild(o),e.appendChild(r),this.container.appendChild(e)}createButton(e,r){let t=document.createElement("button");return t.textContent=e,t.className="mermaid-control-button",t.addEventListener("click",r),window.addCleanup(()=>t.removeEventListener("click",r)),t}onMouseDown(e){e.button===0&&(this.isDragging=!0,this.startPan={x:e.clientX-this.currentPan.x,y:e.clientY-this.currentPan.y},this.container.style.cursor="grabbing")}onMouseMove(e){this.isDragging&&(e.preventDefault(),this.currentPan={x:e.clientX-this.startPan.x,y:e.clientY-this.startPan.y},this.updateTransform())}onMouseUp(){this.isDragging=!1,this.container.style.cursor="grab"}zoom(e){let r=Math.min(Math.max(this.scale+e,this.MIN_SCALE),this.MAX_SCALE),t=this.content.getBoundingClientRect(),o=t.width/2,n=t.height/2,c=r-this.scale;this.currentPan.x-=o*c,this.currentPan.y-=n*c,this.scale=r,this.updateTransform()}updateTransform(){this.content.style.transform=`translate(${this.currentPan.x}px, ${this.currentPan.y}px) scale(${this.scale})`}resetTransform(){this.scale=1;let e=this.content.querySelector("svg");this.currentPan={x:e.getBoundingClientRect().width/2,y:e.getBoundingClientRect().height/2},this.updateTransform()}},C=["--secondary","--tertiary","--gray","--light","--lightgray","--highlight","--dark","--darkgray","--codeFont"],E;document.addEventListener("nav",async()=>{let e=document.querySelector(".center").querySelectorAll("code.mermaid");if(e.length===0)return;E||=await import("https://cdnjs.cloudflare.com/ajax/libs/mermaid/11.4.0/mermaid.esm.min.mjs");let r=E.default,t=new WeakMap;for(let n of e)t.set(n,n.innerText);async function o(){for(let s of e){s.removeAttribute("data-processed");let a=t.get(s);a&&(s.innerHTML=a)}let n=C.reduce((s,a)=>(s[a]=window.getComputedStyle(document.documentElement).getPropertyValue(a),s),{}),c=document.documentElement.getAttribute("saved-theme")==="dark";r.initialize({startOnLoad:!1,securityLevel:"loose",theme:c?"dark":"base",themeVariables:{fontFamily:n["--codeFont"],primaryColor:n["--light"],primaryTextColor:n["--darkgray"],primaryBorderColor:n["--tertiary"],lineColor:n["--darkgray"],secondaryColor:n["--secondary"],tertiaryColor:n["--tertiary"],clusterBkg:n["--light"],edgeLabelBackground:n["--highlight"]}}),await r.run({nodes:e})}await o(),document.addEventListener("themechange",o),window.addCleanup(()=>document.removeEventListener("themechange",o));for(let n=0;n<e.length;n++){let v=function(){let g=l.querySelector("#mermaid-space"),m=l.querySelector(".mermaid-content");if(!m)return;y(m);let w=c.querySelector("svg").cloneNode(!0);m.appendChild(w),l.classList.add("active"),g.style.cursor="grab",u=new h(g,m)},M=function(){l.classList.remove("active"),u?.cleanup(),u=null},c=e[n],s=c.parentElement,a=s.querySelector(".clipboard-button"),d=s.querySelector(".expand-button"),p=window.getComputedStyle(a),L=a.offsetWidth+parseFloat(p.marginLeft||"0")+parseFloat(p.marginRight||"0");d.style.right=`calc(${L}px + 0.3rem)`,s.prepend(d);let l=s.querySelector("#mermaid-container");if(!l)return;let u=null;d.addEventListener("click",v),f(l,M),window.addCleanup(()=>{u?.cleanup(),d.removeEventListener("click",v)})}});
 </script><script src="https://cdn.jsdelivr.net/npm/katex@0.16.11/dist/contrib/copy-tex.min.js" type="application/javascript"></script><script src="../../../../../postscript.js" type="module"></script></html>

diff --git a/public/TTRPG/characters/My-Characters/Abe-Shun'ya/New-vampire-character---creation-nottes.html b/public/TTRPG/characters/My-Characters/Abe-Shun'ya/New-vampire-character---creation-nottes.html
@@ -116,7 +116,7 @@ pre:hover > .expand-button {
   padding: 0 12px;
   font-size: 14px;
 }
[2 lines of base64/hex data omitted]
 <blockquote>
 <p>Information on this page is subject to change, As long as the information is not yet mentioned in the [INSERT CHARACTER NAME] document, it is not yet part of the character’s design.</p>
 </blockquote>